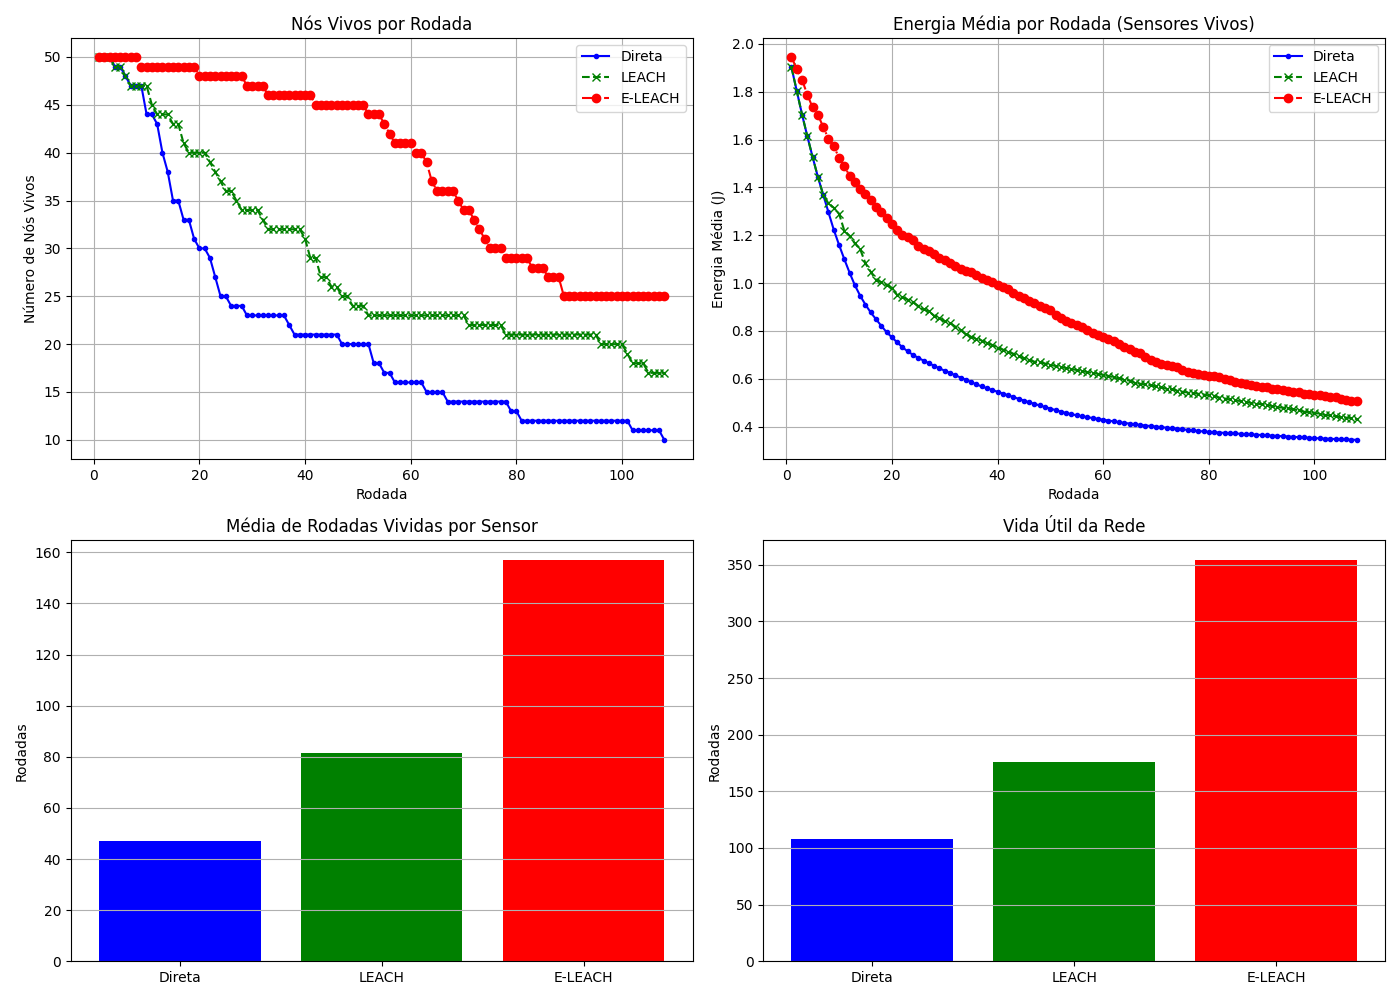
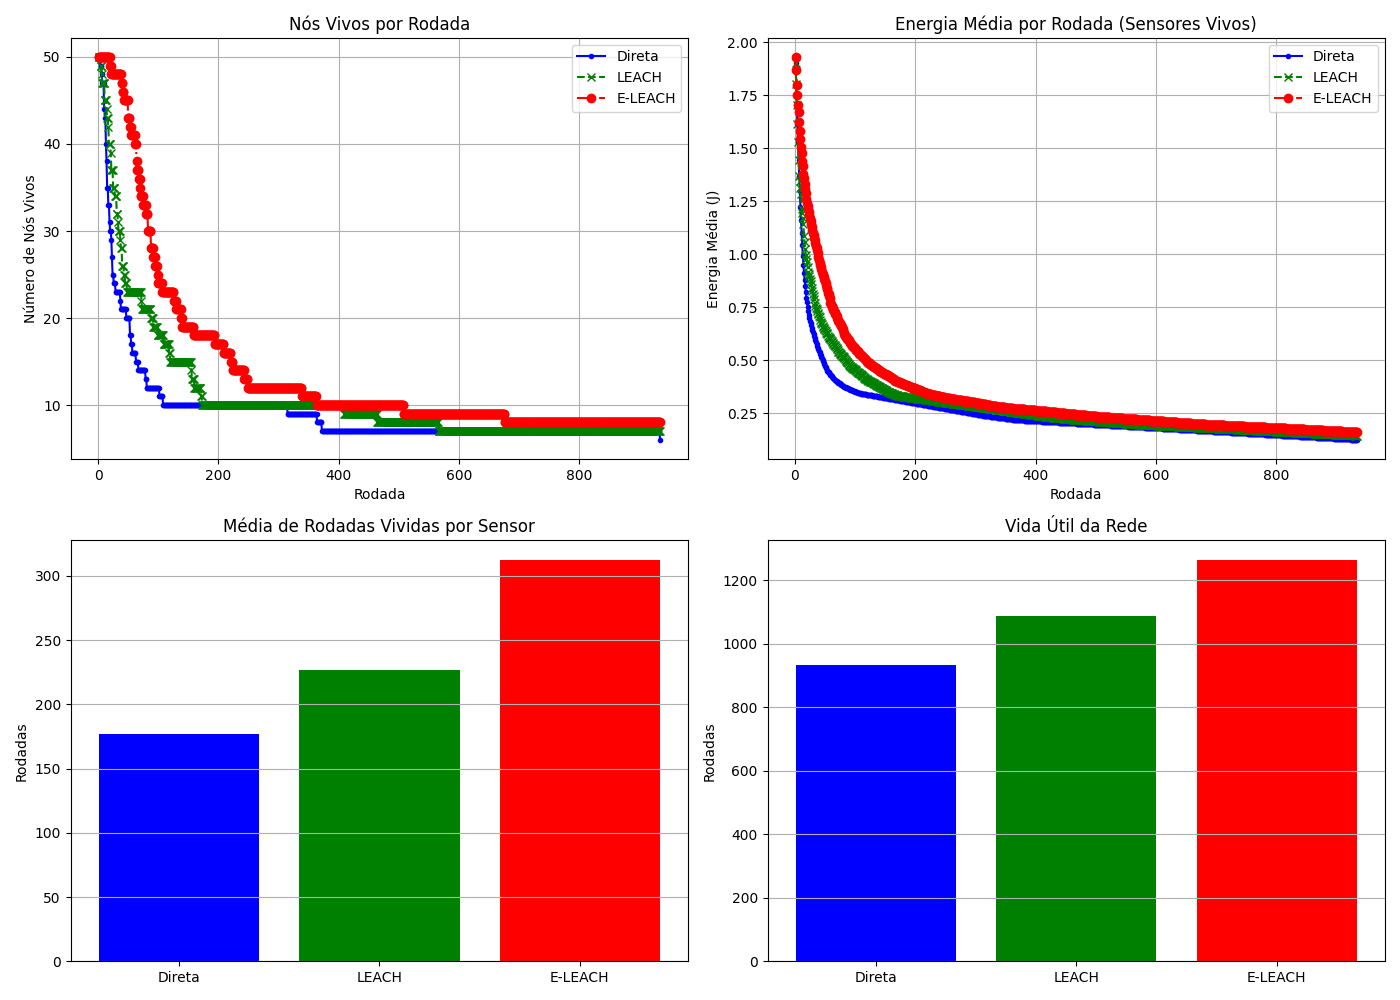
Altera limiar funcional para 12%, adiciona print para quantidade exata numérica

diff --git a/code/main.py b/code/main.py
@@ -87,6 +87,28 @@ def plota_informacoes_com_vida_util(NUM_RODADAS, ARQUIVO_COORDENADAS):
     print(f"\nGráfico salvo como 'comparacao_protocolos_2x2_MEDIA_VIVA_{nome_base}.png'")
     print(f"Vida útil (últimos nós vivos): Direta={vida_direct}, LEACH={vida_leach}, E-LEACH={vida_eleach}")
     plt.show()
+   
+    print("\n====== Resultados Numéricos ======")
+    print(f"Quantidade final de nós vivos:")
+    print(f"  Direta: {alive_direct[-1]}")
+    print(f"  LEACH: {alive_leach[-1]}")
+    print(f"  E-LEACH: {alive_eleach[-1]}")
+
+    print("\nEnergia média na última rodada:")
+    print(f"  Direta: {energy_direct[-1]:.4f} J")
+    print(f"  LEACH: {energy_leach[-1]:.4f} J")
+    print(f"  E-LEACH: {energy_eleach[-1]:.4f} J")
+
+    print("\nMédia de rodadas vividas por sensor:")
+    print(f"  Direta: {media_vida_direct:.2f}")
+    print(f"  LEACH: {media_vida_leach:.2f}")
+    print(f"  E-LEACH: {media_vida_eleach:.2f}")
+
+    print("\nVida útil da rede (rodadas até o último nó morrer ou for inferior ao limiar funcional):")
+    print(f"  Direta: {vida_direct}")
+    print(f"  LEACH: {vida_leach}")
+    print(f"  E-LEACH: {vida_eleach}")
+
 
     return round(max(vida_direct, vida_leach, vida_eleach))
 

diff --git a/code/ELEACH.py b/code/ELEACH.py
@@ -16,7 +16,7 @@ INITIAL_ENERGY = 2.0 # Joules (Energia inicial dos nós)
 P = 0.3             # Probabilidade de um nó se tornar CH (fixa)
 E_SENSE = 8e-5    #Joules por segundo (energia do sensoriamento)
 E_SLEEP = 15e-10  #Joules por intervalor de sleep
-NETWORK_FUNCTIONAL_THRESHOLD = 0.2
+NETWORK_FUNCTIONAL_THRESHOLD = 0.12
 
 # A rede é modelada em forma de um grafo ponderado. A classe SensorNode é considerada o vértice do grafo
 # e a aresta é calculada dinâmicamente baseado na distância entre ERB, CH ou Sensor comum.

diff --git a/code/LEACH.py b/code/LEACH.py
@@ -16,7 +16,7 @@ INITIAL_ENERGY = 2.0 # Joules (Energia inicial dos nós)
 P = 0.3             # Probabilidade de um nó se tornar CH (fixa)
 E_SENSE = 8e-5    #Joules por segundo (energia do sensoriamento)
 E_SLEEP = 15e-10  #Joules por intervalor de sleep
-NETWORK_FUNCTIONAL_THRESHOLD = 0.2
+NETWORK_FUNCTIONAL_THRESHOLD = 0.12
 
 # A rede é modelada em forma de um grafo ponderado. A classe SensorNode é considerada o vértice do grafo
 # e a aresta é calculada dinâmicamente baseado na distância entre ERB, CH ou Sensor comum.

diff --git a/code/direto.py b/code/direto.py
@@ -18,7 +18,7 @@ PACKET_SIZE = 2000  # bits (Tamanho do pacote)
 INITIAL_ENERGY = 2.0 # Joules (Energia inicial dos nós)
 E_SENSE = 8e-5
 E_SLEEP = 15e-10
-NETWORK_FUNCTIONAL_THRESHOLD = 0.2
+NETWORK_FUNCTIONAL_THRESHOLD = 0.12
 
 class SensorNode:
     def __init__(self, node_id, x, y, base_station):
